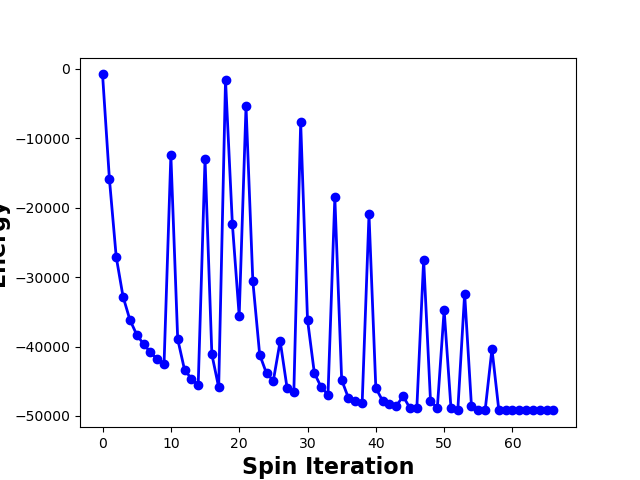
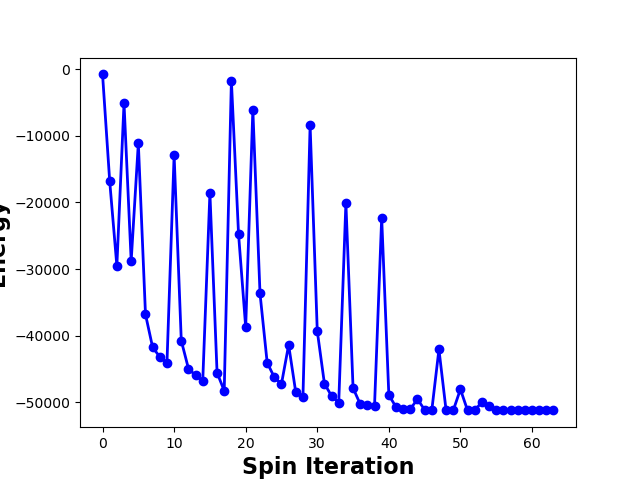
working test data eDRAM letter ver2

diff --git a/Ising_computataion_w_TestData.py b/Ising_computataion_w_TestData.py
@@ -25,9 +25,10 @@ def img2bin(row,col,name):
     for r in range(row):
         for c in range(col):
             if binImg[r][c][3] > 0.5:
-                convertedImg[r][c] = 1
-            else:
+                # change there -1 or 1
                 convertedImg[r][c] = -1
+            else:
+                convertedImg[r][c] = +1
     return convertedImg
 
 
@@ -59,40 +60,42 @@ def img2dict_generate_j(rows,cols,image_name):
     # c = 2 # col
     new_J =[0,0,0,0,0,0,0,0]
     new_J_dict = {}
+    edge = 1
+    non_edge = -1
     for r in range(1, rows + 1):
         for c in range(1, cols + 1):
             if padded_target_img[r][c] == padded_target_img[r-1][c-1]:
-                new_J[0] = 1
+                new_J[0] = edge
             else:
-                new_J[0] = -1
+                new_J[0] = non_edge
             if padded_target_img[r][c] == padded_target_img[r-1][c]:
-                new_J[1] = 1
+                new_J[1] = edge
             else:
-                new_J[1] = -1
+                new_J[1] = non_edge
             if padded_target_img[r][c] == padded_target_img[r-1][c+1]:
-                new_J[2] = 1
+                new_J[2] = edge
             else:
-                new_J[2] = -1
+                new_J[2] = non_edge
             if padded_target_img[r][c] == padded_target_img[r][c+1]:
-                new_J[3] = 1
+                new_J[3] = edge
             else:
-                new_J[3] = -1
+                new_J[3] = non_edge
             if padded_target_img[r][c] == padded_target_img[r+1][c + 1]:
-                new_J[4] = 1
+                new_J[4] = edge
             else:
-                new_J[4] = -1
+                new_J[4] = non_edge
             if padded_target_img[r][c] == padded_target_img[r+1][c]:
-                new_J[5] = 1
+                new_J[5] = edge
             else:
-                new_J[5] = -1
+                new_J[5] = non_edge
             if padded_target_img[r][c] == padded_target_img[r+1][c-1]:
-                new_J[6] = 1
+                new_J[6] = edge
             else:
-                new_J[6] = -1
+                new_J[6] = non_edge
             if padded_target_img[r][c] == padded_target_img[r][c-1]:
-                new_J[7] = 1
+                new_J[7] = edge
             else:
-                new_J[7] = -1
+                new_J[7] = non_edge
             new_J_dict[ind2str(r-1, c-1)] = new_J
             new_J = [0, 0, 0, 0, 0, 0, 0, 0]
     return new_J_dict
@@ -272,21 +275,32 @@ plt.imshow(initial_spin, cmap='Greys_r')
 plt.show()
 
 
+
 # Generate J
 J = img2dict_generate_j(rows,cols,image_name)
 # print("JJJJJJ")
 # print(J)
 # start Ising
-this_spin,KPI,H_sigma_array = Ising_start(initial_spin,J,rows,cols,10,Ising_KPI)
+this_spin,KPI,H_sigma_array = Ising_start(initial_spin,J,rows,cols,3,Ising_KPI)
 # plt.axis('off')
 # plt.imshow(this_spin, cmap='Greys_r')
 # plt.show()
 
 # annealing
-next_spin = annealing_ver2(30,1500,this_spin,image_size, cols)
+next_spin = annealing_ver2(30,2000,this_spin,image_size, cols)
 # plt.imshow(next_spin, cmap='Greys_r')
 # plt.show()
+# start Ising
+this_spin,KPI,H_sigma_array = Ising_start(next_spin,J,rows,cols,2,Ising_KPI)
+# print(this_spin)
+# plt.axis('off')
+# plt.imshow(this_spin, cmap='Greys_r')
+# plt.show()
 
+# annealing
+next_spin = annealing_ver2(30,1600,this_spin,image_size, cols)
+# plt.imshow(next_spin, cmap='Greys_r')
+# plt.show()
 # start Ising
 this_spin,KPI,H_sigma_array = Ising_start(next_spin,J,rows,cols,5,Ising_KPI)
 # print(this_spin)
@@ -295,7 +309,18 @@ this_spin,KPI,H_sigma_array = Ising_start(next_spin,J,rows,cols,5,Ising_KPI)
 # plt.show()
 
 # annealing
-next_spin = annealing_ver2(20,1500,this_spin,image_size,cols)
+next_spin = annealing_ver2(30,1500,this_spin,image_size, cols)
+# plt.imshow(next_spin, cmap='Greys_r')
+# plt.show()
+# start Ising
+this_spin,KPI,H_sigma_array = Ising_start(next_spin,J,rows,cols,5,Ising_KPI)
+# print(this_spin)
+# plt.axis('off')
+# plt.imshow(this_spin, cmap='Greys_r')
+# plt.show()
+
+# annealing
+next_spin = annealing_ver2(20,1200,this_spin,image_size,cols)
 # plt.imshow(next_spin, cmap='Greys_r')
 # plt.show()
 # start Ising
@@ -383,7 +408,7 @@ this_spin,KPI,H_sigma_array = Ising_start(next_spin,J,rows,cols,3,Ising_KPI)
 # plt.show()
 
 # annealing
-next_spin = annealing_ver2(75,800,this_spin,image_size,cols)
+next_spin = annealing_ver2(75,300,this_spin,image_size,cols)
 # plt.imshow(next_spin, cmap='Greys_r')
 # plt.show()
 # start Ising
@@ -394,7 +419,7 @@ this_spin,KPI,H_sigma_array = Ising_start(next_spin,J,rows,cols,3,Ising_KPI)
 # plt.show()
 
 # annealing
-next_spin = annealing_ver2(21,500,this_spin,image_size,cols)
+next_spin = annealing_ver2(21,100,this_spin,image_size,cols)
 # plt.imshow(next_spin, cmap='Greys_r')
 # plt.show()
 # start Ising
@@ -405,19 +430,18 @@ this_spin,KPI,H_sigma_array = Ising_start(next_spin,J,rows,cols,3,Ising_KPI)
 # plt.show()
 
 # annealing
-next_spin = annealing_ver2(22,600,this_spin,image_size,cols)
+next_spin = annealing_ver2(22,40,this_spin,image_size,cols)
 # plt.imshow(next_spin, cmap='Greys_r')
 # plt.show()
 # start Ising
-this_spin,KPI,H_sigma_array = Ising_start(next_spin,J,rows,cols,4,Ising_KPI)
+this_spin,KPI,H_sigma_array = Ising_start(next_spin,J,rows,cols,1,Ising_KPI)
 # print(this_spin)
 # plt.axis('off')
 # plt.imshow(this_spin, cmap='Greys_r')
 # plt.show()
 
-
 # annealing
-next_spin = annealing_ver2(38,300,this_spin,image_size,cols)
+next_spin = annealing_ver2(22,20,this_spin,image_size,cols)
 # plt.imshow(next_spin, cmap='Greys_r')
 # plt.show()
 # start Ising
@@ -426,6 +450,18 @@ this_spin,KPI,H_sigma_array = Ising_start(next_spin,J,rows,cols,10,Ising_KPI)
 # plt.axis('off')
 plt.imshow(this_spin, cmap='Greys_r')
 plt.show()
+
+
+# # annealing
+# next_spin = annealing_ver2(38,100,this_spin,image_size,cols)
+# # plt.imshow(next_spin, cmap='Greys_r')
+# # plt.show()
+# # start Ising
+# this_spin,KPI,H_sigma_array = Ising_start(next_spin,J,rows,cols,10,Ising_KPI)
+# # print(this_spin)
+# # plt.axis('off')
+# plt.imshow(this_spin, cmap='Greys_r')
+# plt.show()
 
 
 
